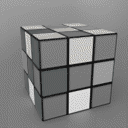
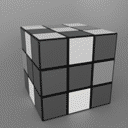
Add grayscale conversion setting

diff --git a/src/main.cpp b/src/main.cpp
@@ -21,6 +21,7 @@ int main(int argc, char* argv[]) {
     std::vector<OkLab> colours;
     std::fstream paletteFile;
     std::string paletteFileLoc = settings_json["palette"];
+    const bool convertGray = settings_json["convert_grayscale"];
 
     paletteFile.open(paletteFileLoc);
 
@@ -40,7 +41,34 @@ int main(int argc, char* argv[]) {
       }
 
       std::string imageFileLoc = settings_json["input_image"];
-      const Image originalImage(imageFileLoc.c_str(), 3);
+      Image originalImage(imageFileLoc.c_str(), 3);
+
+      if (convertGray) {
+        // Convert image to grayscale first
+        const bool saveGray = settings_json["save_grayscale"];
+        for (int x = 0; x < originalImage.GetWidth(); x++) {
+          for (int y = 0; y < originalImage.GetHeight(); y++) {
+            const size_t index = originalImage.GetIndex(x, y);
+
+            sRGB rgb(sRGB::UInt8toDouble(originalImage.GetData(index + 0)),
+              sRGB::UInt8toDouble(originalImage.GetData(index + 1)),
+              sRGB::UInt8toDouble(originalImage.GetData(index + 2)));
+            OkLab lab = OkLab::sRGBtoOkLab(rgb);
+            lab.ConvertToGrayscale();
+
+            rgb = OkLab::OkLabtosRGB(lab);
+
+            originalImage.SetData(index + 0, rgb.GetRUInt());
+            originalImage.SetData(index + 1, rgb.GetGUInt());
+            originalImage.SetData(index + 2, rgb.GetBUInt());
+          }
+        }
+
+        if (saveGray) {
+          originalImage.Write("data/grayscale.png");
+        }
+      }
+
       Image copyImage = originalImage;
 
       // Replicate image into array of OkLab

diff --git a/src/colorSpaces/OkLab.h b/src/colorSpaces/OkLab.h
@@ -58,6 +58,8 @@ public:
 
   bool IsGrayscale(const double threshold) const;
 
+  inline void ConvertToGrayscale() { m_b = 0., m_c = 0.; };
+
 private:
   static Matrix LinearRGBtoXYZ;
   static Matrix XYZtoLinearRGB;
